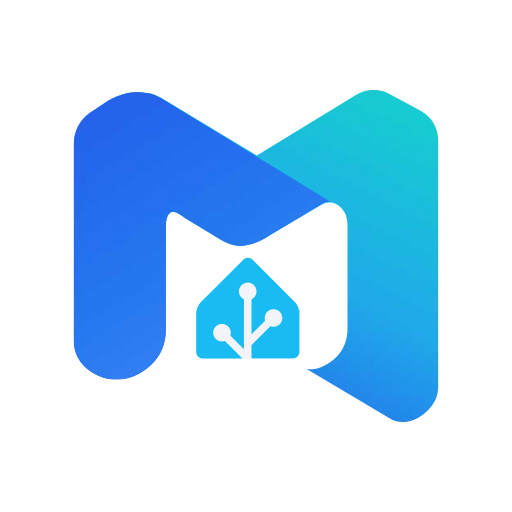
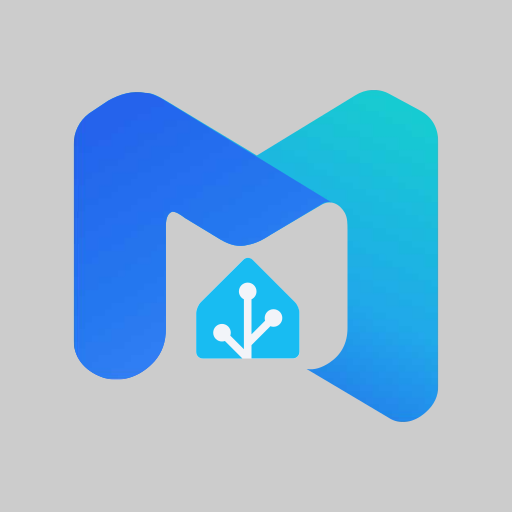
Monita for Home Assistant 1.8.4: install authoritative supplied branding (#22)
* Replace HA branding with exact supplied full-logo master

* Replace HA branding with exact supplied icon master

* Render branding without altering supplied artwork

* Sync HA branding rasters on canonical branding branch

* Lock supplied HA branding masters

* Document exact supplied HA branding masters

* Document exact supplied HA branding masters

* Use supplied vector HA logo in repository documentation

* Bump Monita HA to 1.8.4

* Bump Monita HA to 1.8.4

* Document Monita HA 1.8.4 branding release

* Document exact supplied HA branding

* Make branding raster sync race-safe

* Sync canonical Monita HA branding rasters [skip ci]

* Reference canonical HA branding masters

---------

diff --git a/scripts/render_branding.py b/scripts/render_branding.py
@@ -1,9 +1,9 @@
 #!/usr/bin/env python3
-"""Render Home Assistant/HACS PNG copies from the user-supplied canonical SVG masters."""
+"""Render Home Assistant/HACS PNG copies from the exact supplied SVG masters."""
+
 from pathlib import Path
 import shutil
 import cairosvg
-from PIL import Image, ImageDraw
 
 ROOT = Path(__file__).resolve().parents[1]
 FULL = ROOT / "branding" / "MonitaHomeAssistant_Full-01.svg"
@@ -12,48 +12,8 @@ ICON = ROOT / "branding" / "Monita_HA_Icon-01.svg"
 CANON_ICON = ROOT / "custom_components" / "monita" / "brand" / "monita-ha-icon.png"
 CANON_LOGO = ROOT / "custom_components" / "monita" / "brand" / "monita-ha-logo.png"
 
-def _remove_connected_canvas_background(path: Path) -> None:
-    """Make only a solid edge-connected canvas background transparent.
 
-    If the rendered SVG already has transparent corners, this is a no-op. If all
-    four corners are the same opaque color, only pixels connected to those
-    corners with that exact color are cleared. Artwork pixels are never
-    recolored, resized, blurred, recompressed through JPEG, or otherwise altered.
-    """
-    with Image.open(path) as source:
-        image = source.convert("RGBA")
-
-    corners = [
-        image.getpixel((0, 0)),
-        image.getpixel((image.width - 1, 0)),
-        image.getpixel((0, image.height - 1)),
-        image.getpixel((image.width - 1, image.height - 1)),
-    ]
-
-    if all(pixel[3] == 0 for pixel in corners):
-        return
-
-    if not all(pixel[3] == 255 for pixel in corners):
-        raise RuntimeError(f"Icon canvas has mixed corner alpha; refusing to alter artwork: {path}")
-
-    background = corners[0]
-    if any(pixel[:3] != background[:3] for pixel in corners[1:]):
-        raise RuntimeError(f"Icon canvas corners do not share one background color: {path}")
-
-    transparent = (background[0], background[1], background[2], 0)
-    for point in (
-        (0, 0),
-        (image.width - 1, 0),
-        (0, image.height - 1),
-        (image.width - 1, image.height - 1),
-    ):
-        if image.getpixel(point)[:3] == background[:3]:
-            ImageDraw.floodfill(image, point, transparent, thresh=0)
-
-    image.save(path, format="PNG")
-
-
-def render(src: Path, dst: Path, width: int, height: int, *, transparent_canvas: bool = False) -> None:
+def render(src: Path, dst: Path, width: int, height: int) -> None:
     dst.parent.mkdir(parents=True, exist_ok=True)
     cairosvg.svg2png(
         bytestring=src.read_bytes(),
@@ -61,10 +21,9 @@ def render(src: Path, dst: Path, width: int, height: int, *, transparent_canvas:
         output_width=width,
         output_height=height,
     )
-    if transparent_canvas:
-        _remove_connected_canvas_background(dst)
 
-render(ICON, CANON_ICON, 512, 512, transparent_canvas=True)
+
+render(ICON, CANON_ICON, 512, 512)
 render(FULL, CANON_LOGO, 1413, 512)
 
 aliases = {

diff --git a/custom_components/monita/brand/README.md b/custom_components/monita/brand/README.md
@@ -1,19 +1,19 @@
 # Monita for Home Assistant branding
 
-The exact SVG files supplied on **2026-10-01** are the authoritative visual source for Monita for Home Assistant.
+The supplied SVG files are the authoritative visual source for Monita for Home Assistant.
 
 ## Canonical masters
 
-- `../../../branding/MonitaHomeAssistant_Full-01.svg` — full Monita for Home Assistant logo
-- `../../../branding/Monita_HA_Icon-01.svg` — Monita for Home Assistant icon
+- `branding/MonitaHomeAssistant_Full-01.svg` — full Monita for Home Assistant logo
+- `branding/Monita_HA_Icon-01.svg` — Monita for Home Assistant icon
 
-## Active PNG assets
+The artwork is used exactly as supplied. It must not be redrawn, recolored, cropped, have its canvas background removed, have its proportions changed, be traced, simplified, or otherwise reinterpreted.
 
-- `monita-ha-icon.png` — rendered directly from the supplied icon SVG
-- `monita-ha-logo.png` — rendered directly from the supplied full-logo SVG
-- `icon.png` — byte-identical Home Assistant/HACS alias of `monita-ha-icon.png`
-- `logo.png` — byte-identical Home Assistant/HACS alias of `monita-ha-logo.png`
+## Home Assistant / HACS raster copies
 
-The PNG files exist only because Home Assistant/HACS surfaces require raster assets. They are generated from the supplied SVG masters without redrawing, recoloring, cropping, stretching, tracing, or reinterpreting the artwork.
+Home Assistant and HACS surfaces require PNG assets. `scripts/render_branding.py` renders those PNGs directly from the supplied SVG masters at the required pixel dimensions.
 
-Any future branding change must begin with newly supplied canonical SVG artwork and update the branding lock.
+- `monita-ha-icon.png` / `icon.png` — direct render of the supplied HA icon
+- `monita-ha-logo.png` / `logo.png` — direct render of the supplied full HA logo
+
+The historical `gotify_mu` component keeps byte-identical branding aliases only for existing-install compatibility. It does not use separate artwork.

diff --git a/README.md b/README.md
@@ -13,13 +13,13 @@ It provides native Home Assistant notification entities for Monita Channels, ima
 
 ## Current release
 
-**Monita for Home Assistant 1.8.3** is the current integration release documented by this repository.
+**Monita for Home Assistant 1.8.4** is the current integration release documented by this repository.
 
-It is designed for the current [Monita server](https://github.com/gigabytegrove/monita) release (**1.3.4**). Direct camera/image delivery into Notification and Chat Channels requires **Monita 1.1.9 or newer**; Monita 1.2.0+ adds per-message collaboration controls and the 24-hour Notification Channel retention policy.
+It is designed for the current [Monita server](https://github.com/gigabytegrove/monita) release (**1.3.5**). Direct camera/image delivery into Notification and Chat Channels requires **Monita 1.1.9 or newer**; Monita 1.2.0+ adds per-message collaboration controls and the 24-hour Notification Channel retention policy.
 
 Companion client:
 
-- [Monita for Android](https://github.com/gigabytegrove/monita-android) — current testing release: **0.3.16**
+- [Monita for Android](https://github.com/gigabytegrove/monita-android) — current testing release: **0.3.17**
 
 ## Documentation
 
@@ -27,7 +27,7 @@ Companion client:
 - **[Changelog](CHANGELOG.md)** — version-by-version changes and compatibility notes.
 - **[Monita Rebrand & Upgrade Guide](docs/REBRANDING.md)** — explains the Gotify-MU → Monita transition and which technical identifiers intentionally remain unchanged.
 
-The README covers installation and the most common workflows. The complete guide is the canonical reference for all supported functionality.
+The README covers installation and the most common workflows. The complete guide is the canonical reference for all supported functionality. The SVG files under `branding/` are the authoritative Monita for Home Assistant artwork.
 
 ## Features
 

diff --git a/custom_components/gotify_mu/brand/README.md b/custom_components/gotify_mu/brand/README.md
@@ -1,12 +1,19 @@
 # Monita for Home Assistant branding
 
-This compatibility component uses the same current Monita for Home Assistant artwork as the canonical `monita` integration.
+The supplied SVG files are the authoritative visual source for Monita for Home Assistant.
 
-The authoritative SVG masters are stored at the repository root under `branding/`:
+## Canonical masters
 
-- `branding/MonitaHomeAssistant_Full-01.svg`
-- `branding/Monita_HA_Icon-01.svg`
+- `branding/MonitaHomeAssistant_Full-01.svg` — full Monita for Home Assistant logo
+- `branding/Monita_HA_Icon-01.svg` — Monita for Home Assistant icon
 
-The PNG files in this directory are byte-identical compatibility copies rendered from those supplied masters. The historical `gotify_mu` technical path remains only so existing Home Assistant installations continue to load without breaking.
+The artwork is used exactly as supplied. It must not be redrawn, recolored, cropped, have its canvas background removed, have its proportions changed, be traced, simplified, or otherwise reinterpreted.
 
-Do not redraw, recolor, crop, stretch, trace, simplify, substitute, or manually recreate the artwork.
+## Home Assistant / HACS raster copies
+
+Home Assistant and HACS surfaces require PNG assets. `scripts/render_branding.py` renders those PNGs directly from the supplied SVG masters at the required pixel dimensions.
+
+- `monita-ha-icon.png` / `icon.png` — direct render of the supplied HA icon
+- `monita-ha-logo.png` / `logo.png` — direct render of the supplied full HA logo
+
+The historical `gotify_mu` component keeps byte-identical branding aliases only for existing-install compatibility. It does not use separate artwork.

diff --git a/CHANGELOG.md b/CHANGELOG.md
@@ -1,5 +1,21 @@
 # Changelog
 
+## 1.8.4 — 2026-10-02
+
+### Authoritative supplied branding
+
+- Restored the full Monita for Home Assistant logo and icon directly from the supplied SVG masters.
+- The icon canvas/background is preserved exactly as supplied; the branding renderer no longer removes or alters it.
+- HACS root branding, the canonical `monita` component, and the existing-install `gotify_mu` compatibility component all use raster copies generated from those same supplied masters.
+- Root `icon.png` is the supplied HA icon and root `logo.png` is the supplied full HA logo.
+- GitHub documentation uses the supplied vector full logo directly for crisp rendering.
+- No redraw, recolor, crop, trace, simplification, background removal, or geometry change is performed.
+
+### Compatibility
+
+- No configuration, entity, action, token, or automation migration is required.
+- Existing `monita` and compatibility `gotify_mu` installations update in place.
+
 ## 1.8.3 — 2026-10-01
 
 ### Transparent icon background
